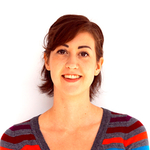
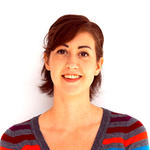
Optimize team images

diff --git a/css/pages/_team.scss b/css/pages/_team.scss
@@ -11,8 +11,8 @@
   margin: 0 50px 50px 0;
 
   img {
-    width: 150px;
-    height: 150px;
+    width: 100px;
+    height: 100px;
     border-radius: 2px;
     border: 1px solid $gray--mid;
   }
